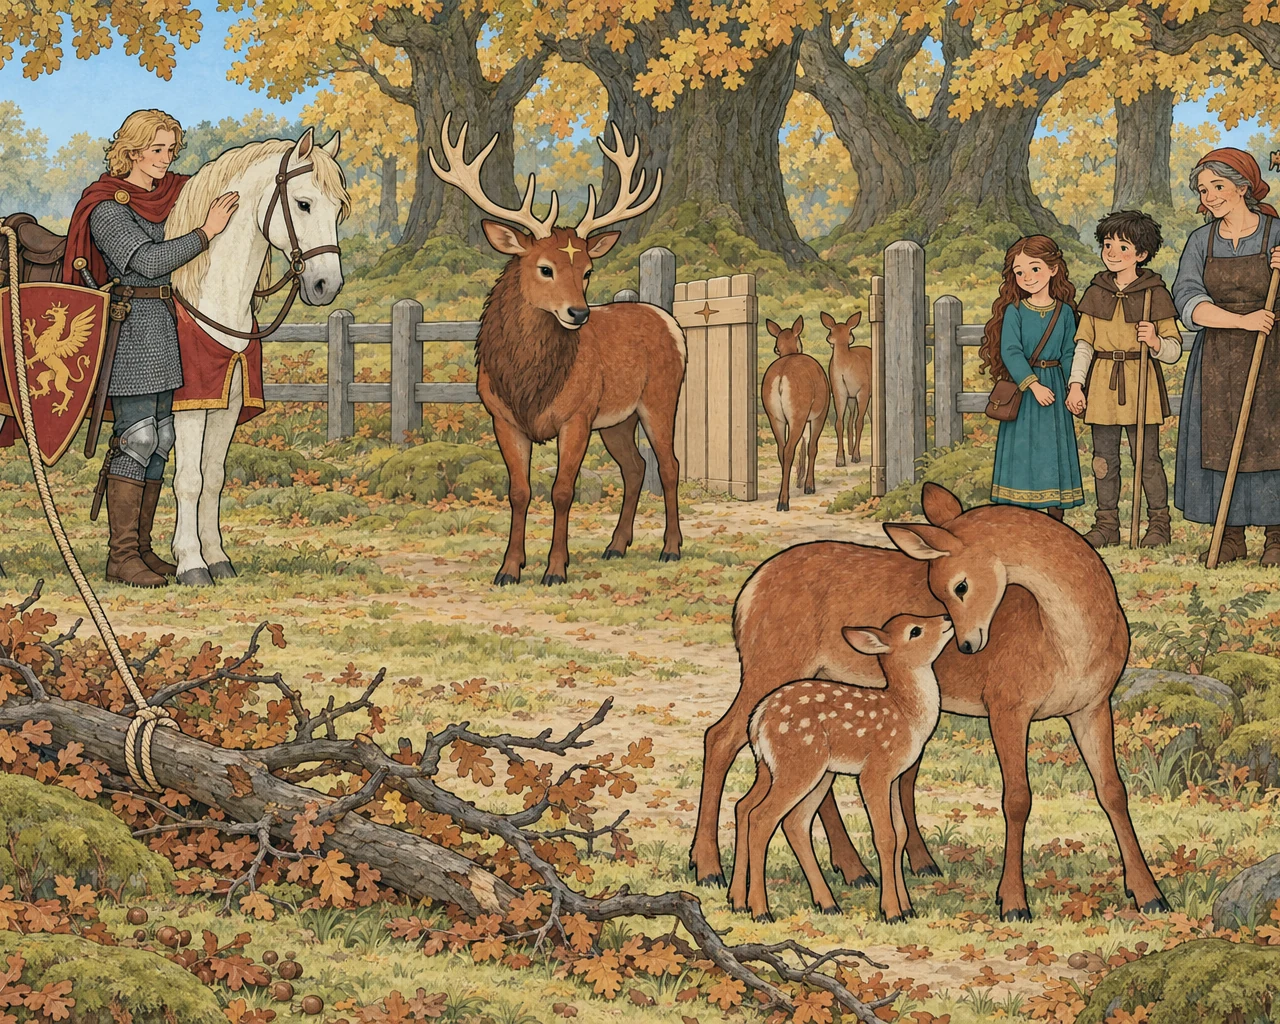
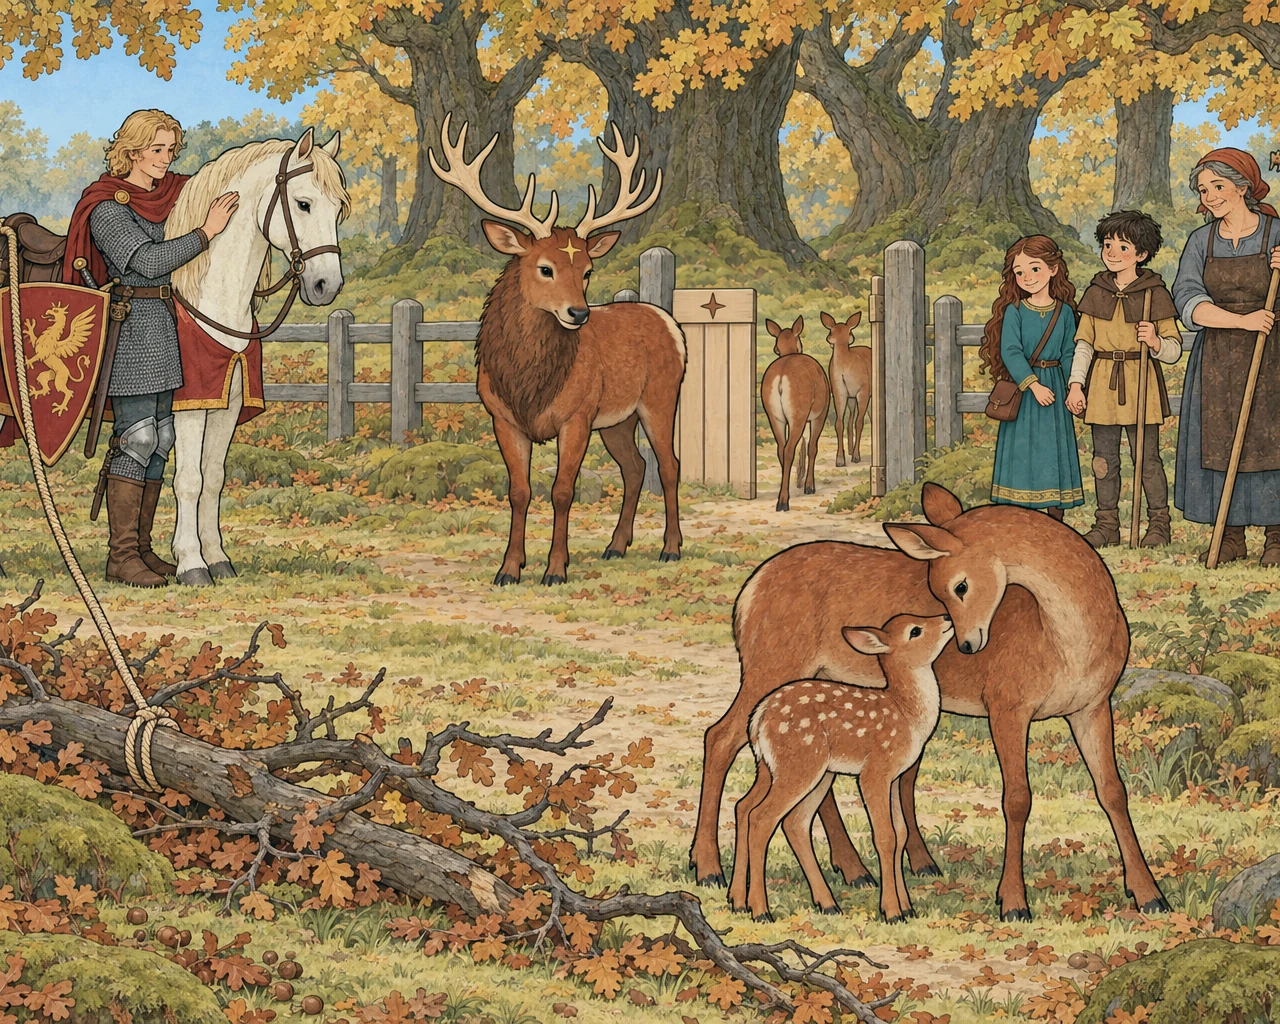
Forest p7 and p9 fixes after fresh review: one-headed hinds, gate planks under the crossbar, the mare's caparison, the shield on Gustaw's side

Changed region(s): [[0.5312, 0.25, 0.625, 0.5]]

diff --git a/src/book/pages.js b/src/book/pages.js
@@ -134,7 +134,7 @@ export const moonhillSpreads = [
 // (docs/DECISIONS.md).
 const p3FollowPiglets = img(`${FO}/p3-follow-piglets.webp`, "Świnki wbiegają do Matecznika tam, gdzie stała furtka, a w środku stoi Marcin; wyłamana furtka z pękniętą gwiazdką leży w trawie, a Oliwia klęczy z pustą czapeczką żołędzia na dłoni.", "The piglets trot through the open gateway into the Heartwood, where Marcin stands; the broken gate with its cracked star lies in the grass, and Oliwia kneels with an empty acorn cup in her palm.");
 const p5AskKindly = img(`${FO}/p5-ask-kindly.webp`, "Marcin z ręką na piersi mówi prawdę, Oliwia trzyma go za rękę, Agata kładzie mu dłoń na ramieniu, a Gustaw podnosi wyłamaną furtkę z pękniętą gwiazdką; jego tarcza stoi oparta o słupek.", "Marcin, a hand on his chest, tells the truth; Oliwia holds his hand, Agata rests hers on his shoulder, and Gustaw lifts the broken gate with its cracked star, his shield propped against a post.");
-const p7GiveSack = img(`${FO}/p7-give-sack.webp`, "Oliwia i Agata sypią żołędzie przez płot, Koniczynka niesie worek Marcina, Gustaw trzyma nową furtkę, a jego tarcza stoi oparta o słupek; Marcin wycina na poprzeczce gwiazdkę dłutkiem i drewnianym młotkiem, a obok stoi stara furtka z pękniętą gwiazdką.", "Oliwia and Agata pour acorns over the fence, Koniczynka carries Marcin's sack, Gustaw holds the new gate with his shield propped against a post, and Marcin carves a star on its crossbar with a chisel and a wooden mallet; the old gate with its cracked star leans beside him.");
+const p7GiveSack = img(`${FO}/p7-give-sack.webp`, "Oliwia i Agata sypią żołędzie przez płot, Koniczynka niesie worek Marcina, Gustaw trzyma nową furtkę, a jego tarcza stoi za płotem oparta o słupek; Marcin wycina na poprzeczce gwiazdkę dłutkiem i drewnianym młotkiem, a obok stoi stara furtka z pękniętą gwiazdką.", "Oliwia and Agata pour acorns over the fence, Koniczynka carries Marcin's sack, Gustaw holds the new gate, his shield propped against a post behind the fence, and Marcin carves a star on its crossbar with a chisel and a wooden mallet; the old gate with its cracked star leans beside him.");
 const p9MakeWay = img(`${FO}/p9-make-way.webp`, "Jeleń z gwiazdką idzie ścieżką, mgła rozstępuje się przed nim, a za nim idą Oliwia i Marcin ręka w rękę, Gustaw z Koniczynką i Agata; łanie skubią żołędzie w Mateczniku za nową furtką.", "The star stag walks down the path as the mist parts before it; behind it come Oliwia and Marcin hand in hand, Gustaw with Koniczynka, and Agata; the hinds graze on acorns in the Heartwood beyond the new gate.");
 const p10MakeWay = img(`${FO}/p10-make-way.webp`, "Złoty medalion: w Mateczniku w południe łania z jelonkiem skubią żołędzie, jeleń z gwiazdką stoi obok, a na poprzeczce nowej furtki widać wyciętą gwiazdkę.", "A gold medallion: in the Heartwood at noon the doe and her fawn graze on acorns, the star stag stands beside them, and the new gate's crossbar carries a carved star.");
 

diff --git a/prototypes/prompts/_build_forest.py b/prototypes/prompts/_build_forest.py
@@ -552,6 +552,9 @@ again("fo-p7-gather-forest", "fo-p7-gather-foresti", "fo-p7-gather-forestj", "ev
 # fo-p6g and fo-p7-give-sackj. p3 follow-piglets, p4 and p5 ask-kindly already had that form.
 again("fo-p7-give-sack", "fo-p7-give-sackj", "fo-p7-give-sackk", "everything except Gustaw's shield",
       "Gustaw's red griffin shield leans against the old grey fence post on the FAR side of the fence, Gustaw's side (outside the Heartwood), partly behind the rail, the griffin still visible; nothing stands on the moss on our side of the fence.", neg="no shield on our side of the fence; no shield on Gustaw's arm or back")
+# Shipped composites (changed region only): fo-p9-make-wayh = make-wayf + the deer and gate from g; fo-p9-help-fawni =
+# help-fawng + the gate from h; fo-p7-gather-forestk = gather-foresti + the caparison from j; fo-p7-give-sackl =
+# give-sackj + the shield behind the rail from k.
 
 
 if __name__ == "__main__":
